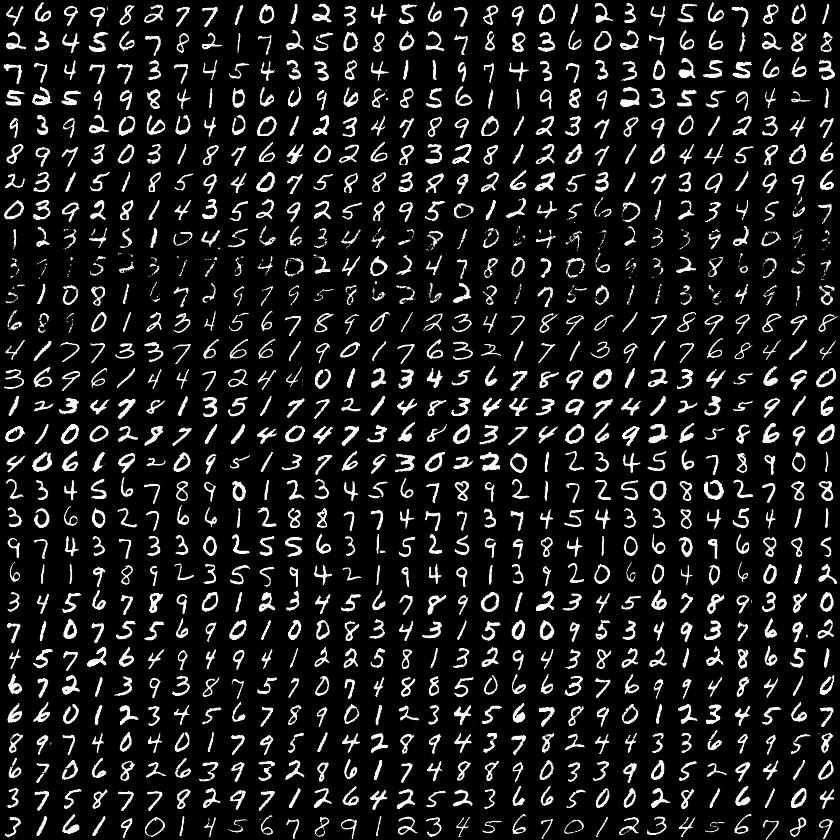
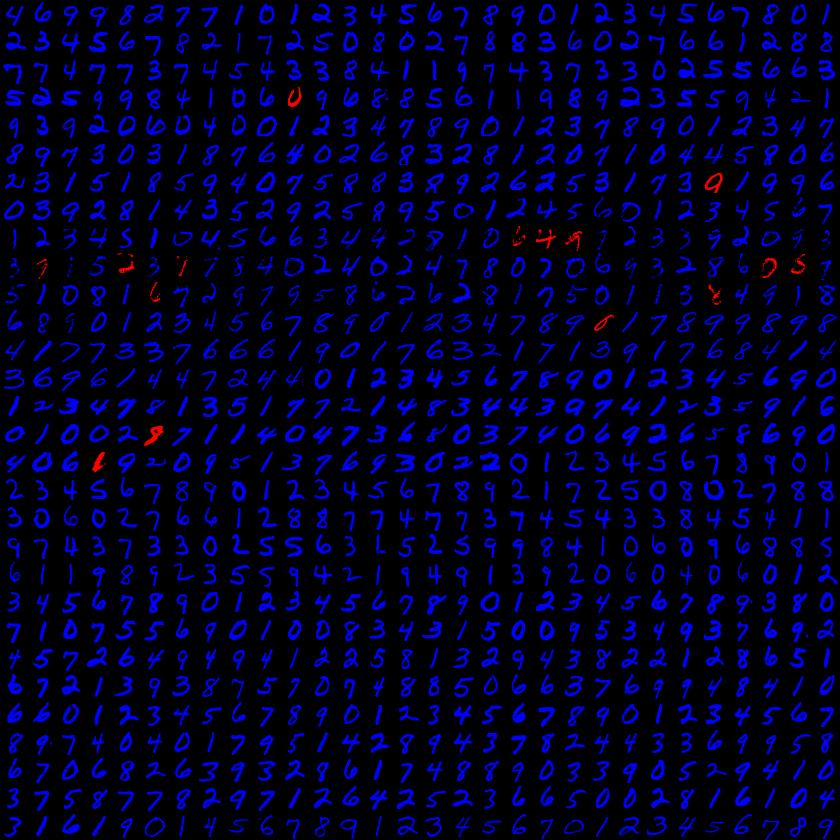
10060 Colorising the Images

Changed region(s): [[0.0, 0.0, 1.0, 1.0]]

diff --git a/neuralnetwork/src/main/java/cave/neuralnetwork/loader/image/ImageWriter.java b/neuralnetwork/src/main/java/cave/neuralnetwork/loader/image/ImageWriter.java
@@ -42,12 +42,12 @@ public class ImageWriter {
 		int maxIndex = 0;
 
 		for (int i = 0; i < oneHotSize; i++) {
-			if(labelData[offset + i] > maxValue) {
+			if (labelData[offset + i] > maxValue) {
 				maxValue = labelData[offset + i];
 				maxIndex = i;
 			}
 		}
-		
+
 		return maxIndex;
 	}
 
@@ -65,7 +65,7 @@ public class ImageWriter {
 		ImageLoader loader = testLoader;
 
 		ImageMetaData metaData = loader.open();
-		
+
 		var neuralNetwork = NeuralNetwork.load("mnistNeural0.net");
 
 		int imageWidth = metaData.getWidth();
@@ -92,24 +92,24 @@ public class ImageWriter {
 			String montagePath = String.format("montage%d.jpg", i);
 			System.out.println("Writing " + montagePath);
 
-			var montage = new BufferedImage(canvasWidth, canvasHeight, BufferedImage.TYPE_BYTE_GRAY);
+			var montage = new BufferedImage(canvasWidth, canvasHeight, BufferedImage.TYPE_INT_RGB);
 
 			double[] pixelData = batchData.getInputBatch();
 			double[] labelData = batchData.getExpectedBatch();
 
 			int imageSize = imageWidth * imageHeight;
-			
+
 			boolean[] correct = new boolean[numberImages];
-			
-			for(int n = 0; n < numberImages; n++) {
+
+			for (int n = 0; n < numberImages; n++) {
 				double[] singleImage = Arrays.copyOfRange(pixelData, n * imageSize, (n + 1) * imageSize);
 				double[] singleLabel = Arrays.copyOfRange(labelData, n * labelSize, (n + 1) * labelSize);
-				
+
 				double[] predictedLabel = neuralNetwork.predict(singleImage);
-				
+
 				int predicted = convertOneHotToInt(predictedLabel, 0, labelSize);
 				int actual = convertOneHotToInt(singleLabel, 0, labelSize);
-				
+
 				correct[n] = predicted == actual;
 			}
 
@@ -128,7 +128,14 @@ public class ImageWriter {
 
 				double pixelValue = pixelData[pixelIndex];
 				int color = (int) (0x100 * pixelValue);
-				int pixelColor = (color << 16) + (color << 8) + color;
+				int pixelColor = 0;
+
+				if (correct[imageNumber]) {
+					pixelColor = color;
+				}
+				else {
+					pixelColor = (color << 16);
+				}
 
 				montage.setRGB(x, y, pixelColor);
 			}
@@ -139,8 +146,6 @@ public class ImageWriter {
 				// TODO Auto-generated catch block
 				e.printStackTrace();
 			}
-
-			
 
 			StringBuilder sb = new StringBuilder();
 
